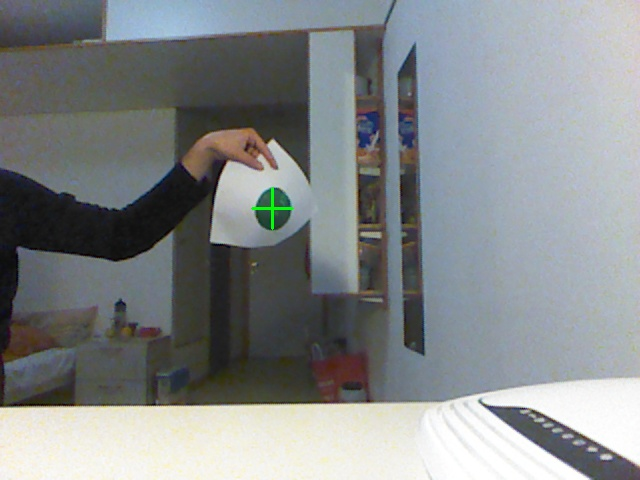
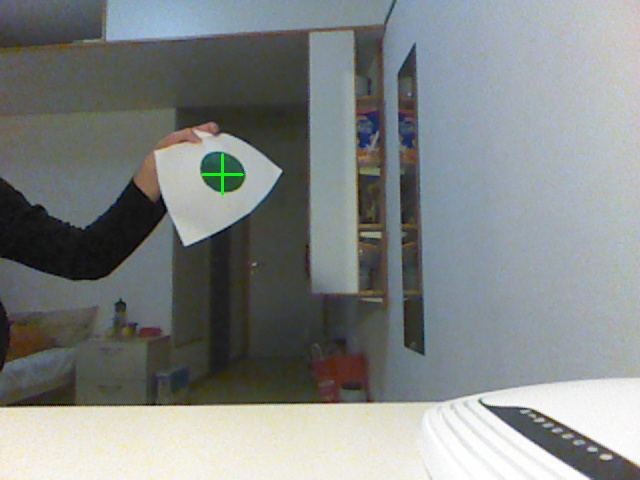
Added the debugging mode for images

diff --git a/Calibration/main_calibration.cpp b/Calibration/main_calibration.cpp
@@ -880,6 +880,22 @@ void writeToFile(cv::Mat inputImg, cv::Point point, string path)
 	imwrite(path, convertToDisplay(res));
 }
 
+// Write an image to a file and place an X where the detected position is and another X where it should be
+void writeToFile(cv::Mat inputImg, cv::Point point1, cv::Point point2, string path)
+{
+	cv::Mat res = convertToDisplay(inputImg);
+
+	// Green for first point
+	line(res, Point(point1.x - 20, point1.y), Point(point1.x + 20, point1.y), Scalar(0, 255, 0), 2, 8, 0);
+	line(res, Point(point1.x, point1.y - 20), Point(point1.x, point1.y + 20), Scalar(0, 255, 0), 2, 8, 0);
+
+	// Red is for secont point
+	line(res, Point(point2.x - 20, point2.y), Point(point2.x + 20, point2.y), Scalar(0, 0, 255), 2, 8, 0);
+	line(res, Point(point2.x, point2.y - 20), Point(point2.x, point2.y + 20), Scalar(0, 0, 255), 2, 8, 0);
+
+	imwrite(path, res);
+}
+
 void loop()
 {
 	USHORT data[width*height];// array containing the depth information of each pixel
@@ -949,7 +965,7 @@ void loop()
 		cv::pyrUp(kinectDepthFilteredImage, depthImg_double);
 
 		bool kinectRGBRes, kinectDepthRes, rgbRes;
-		Point kinectRGBMatchingPoint, depthMatchingPoint, rgbMatchingPoint;
+		Point kinectRGBMatchingPoint, depthMatchingPoint, rgbMatchingPoint, computedDepthMatchingPoint;
 
 		// Try to find the image in the close region
 		kinectRGBRes = rgbTemplateMatching_32F(kinectRGBDif_red, kinect_rgb_template_2, 0.75, &kinectRGBMatchingPoint, "kinect_rgb_matching", cv::Point(medianKinect.x/2, medianKinect.y/2), cv::Size(s.width/2, s.height/2));		
@@ -968,7 +984,7 @@ void loop()
 
 		if (kinectRGBRes == true && kinectDepthRes == true && rgbRes == true)
 		{
-			bool getP = getDepthPointFromRGB(original_depth, data, kinectRGBMatchingPoint, &depthMatchingPoint);
+			bool getP = getDepthPointFromRGB(original_depth, data, kinectRGBMatchingPoint, &computedDepthMatchingPoint);
 			if (getP)
 			{
 				// all conditions have been met, add points to the calibrator
@@ -980,7 +996,7 @@ void loop()
 				char path[1024];
 			
 				sprintf_s(path, 1024, "debug_img\\original_depth_%d.jpg", no);
-				writeToFile(original_depth, depthMatchingPoint, path);
+				writeToFile(original_depth, computedDepthMatchingPoint, depthMatchingPoint, path); // Green computed, red detected 
 
 				sprintf_s(path, 1024, "debug_img\\rgb_image_%d.jpg", no);
 				writeToFile(rgbImage, rgbMatchingPoint, path);
